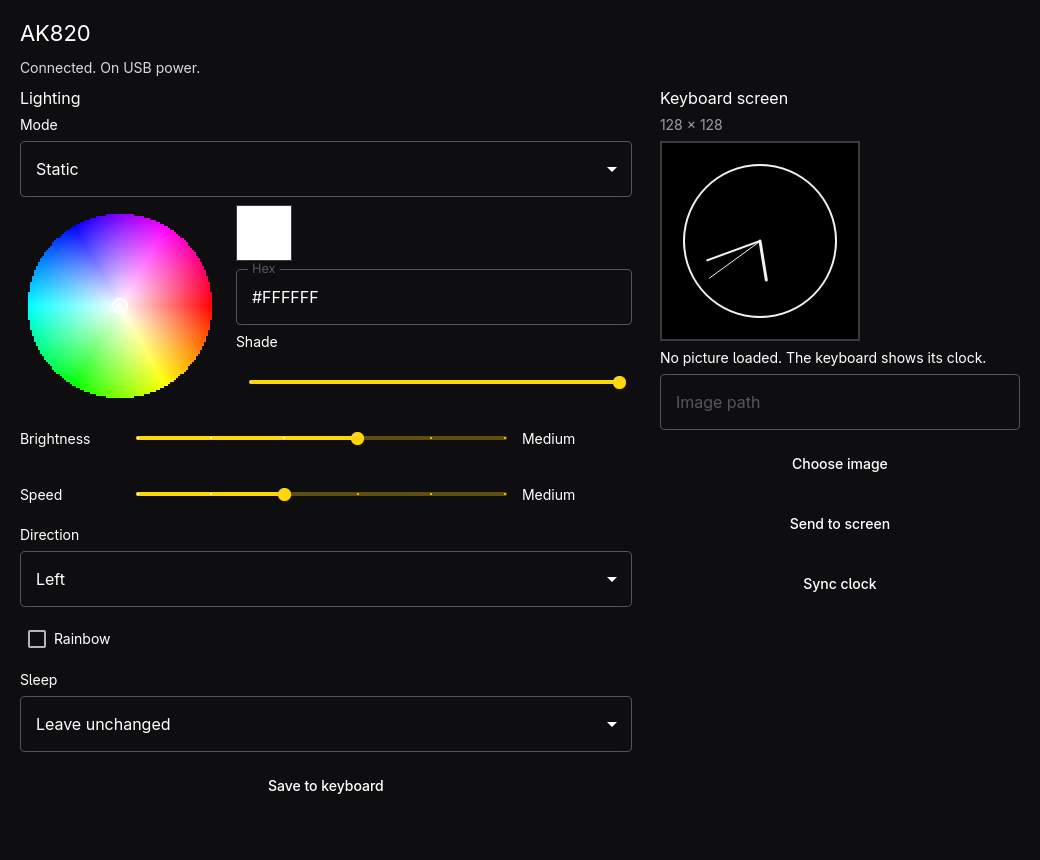
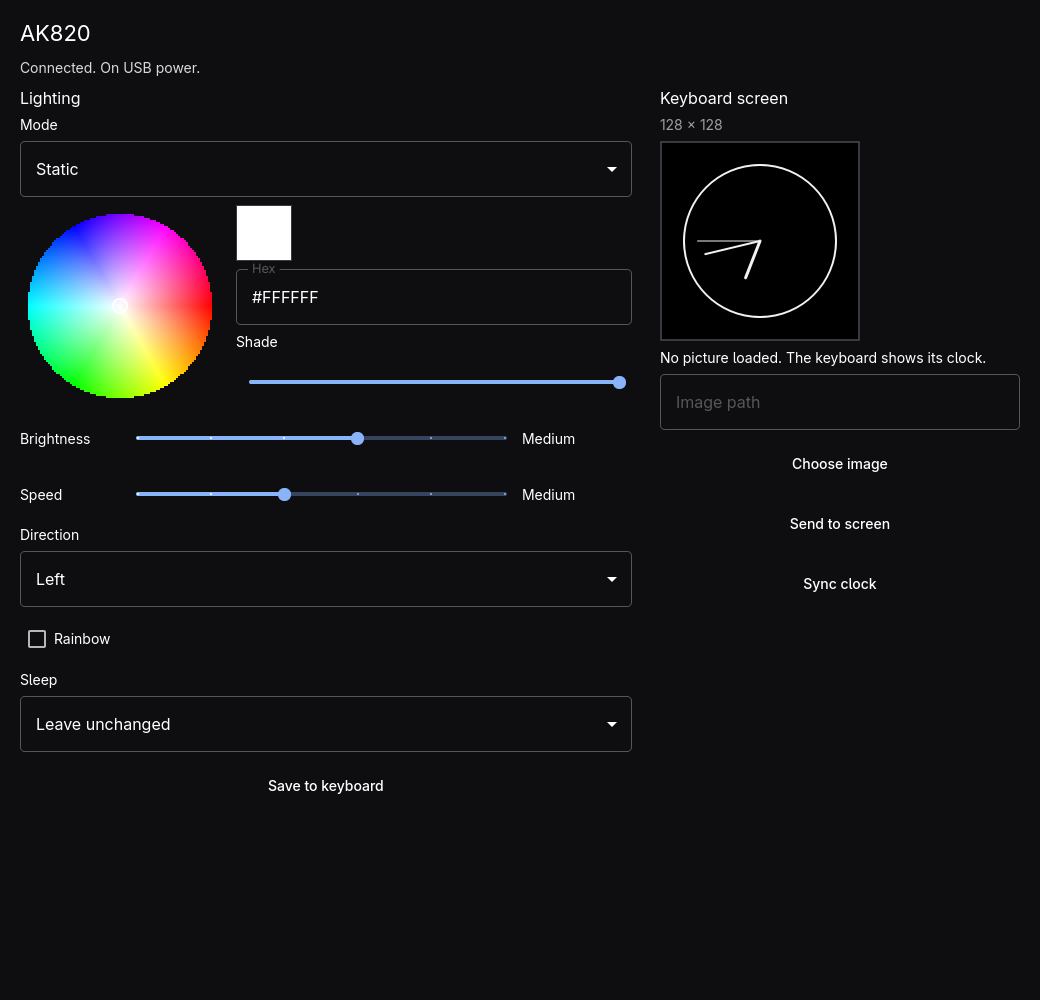
Refresh README and application screenshot

diff --git a/README.md b/README.md
@@ -2,7 +2,7 @@
 
 **A Linux desktop app and command-line tool for the AJAZZ AK820 Pro keyboard.**
 
-Adjust RGB lighting and sleep behavior, sync the keyboard clock, and put a still image on its 128 × 128 screen. The desktop app gives you a visual color picker and controls; the CLI makes the same core settings easy to script.
+Adjust RGB lighting and sleep behavior, sync the keyboard clock, and put a still image on its 128 × 128 screen. The desktop app gives you a visual color picker and controls. The CLI makes the same core settings easy to script.
 
 ![AK820 app window](screenshot.png)
 
@@ -11,11 +11,11 @@ Adjust RGB lighting and sleep behavior, sync the keyboard clock, and put a still
 - Set a static lighting color or choose a lighting mode, brightness, speed, direction, and rainbow option.
 - Choose when the keyboard goes to sleep.
 - Sync the keyboard clock with your computer.
-- Send an image to the keyboard screen. Images are center-cropped to a square and scaled to 128 × 128 pixels; this replaces custom screen slot 1.
+- Send an image to the keyboard screen. Images are center-cropped to a square and scaled to 128 × 128 pixels. This replaces custom screen slot 1.
 - Use the graphical interface or JSON-friendly command-line commands.
 - Localized interface, currently including English and Danish.
 
-Keyboard changes are sent when you apply them. In the desktop app, lighting and sleep settings are written with **Save** (Space); moving a control alone does not write settings to the keyboard.
+Keyboard changes are sent when you apply them. In the desktop app, lighting and sleep settings are written with **Save** (Space). Moving a control alone does not write settings to the keyboard.
 
 ## Requirements
 
@@ -29,7 +29,7 @@ The included Arch Linux package recipe lists its runtime dependencies and instal
 
 ```sh
 ./bin/build
-./bin/setup-udev  # one time; unplug and reconnect the keyboard afterward
+./bin/setup-udev  # one time, then unplug and reconnect the keyboard
 ./build/ak820
 ```
 
@@ -41,7 +41,7 @@ To build and install the Arch package (from an Arch-based system):
 
 ## Command line
 
-The built executable is `build/ak820`. Add `--json` to get a single JSON result object; commands return exit status 0 on success and 1 on failure.
+The built executable is `build/ak820`. Add `--json` to get a single JSON result object. Commands return exit status 0 on success and 1 on failure.
 
 ```sh
 ./build/ak820 probe --json
